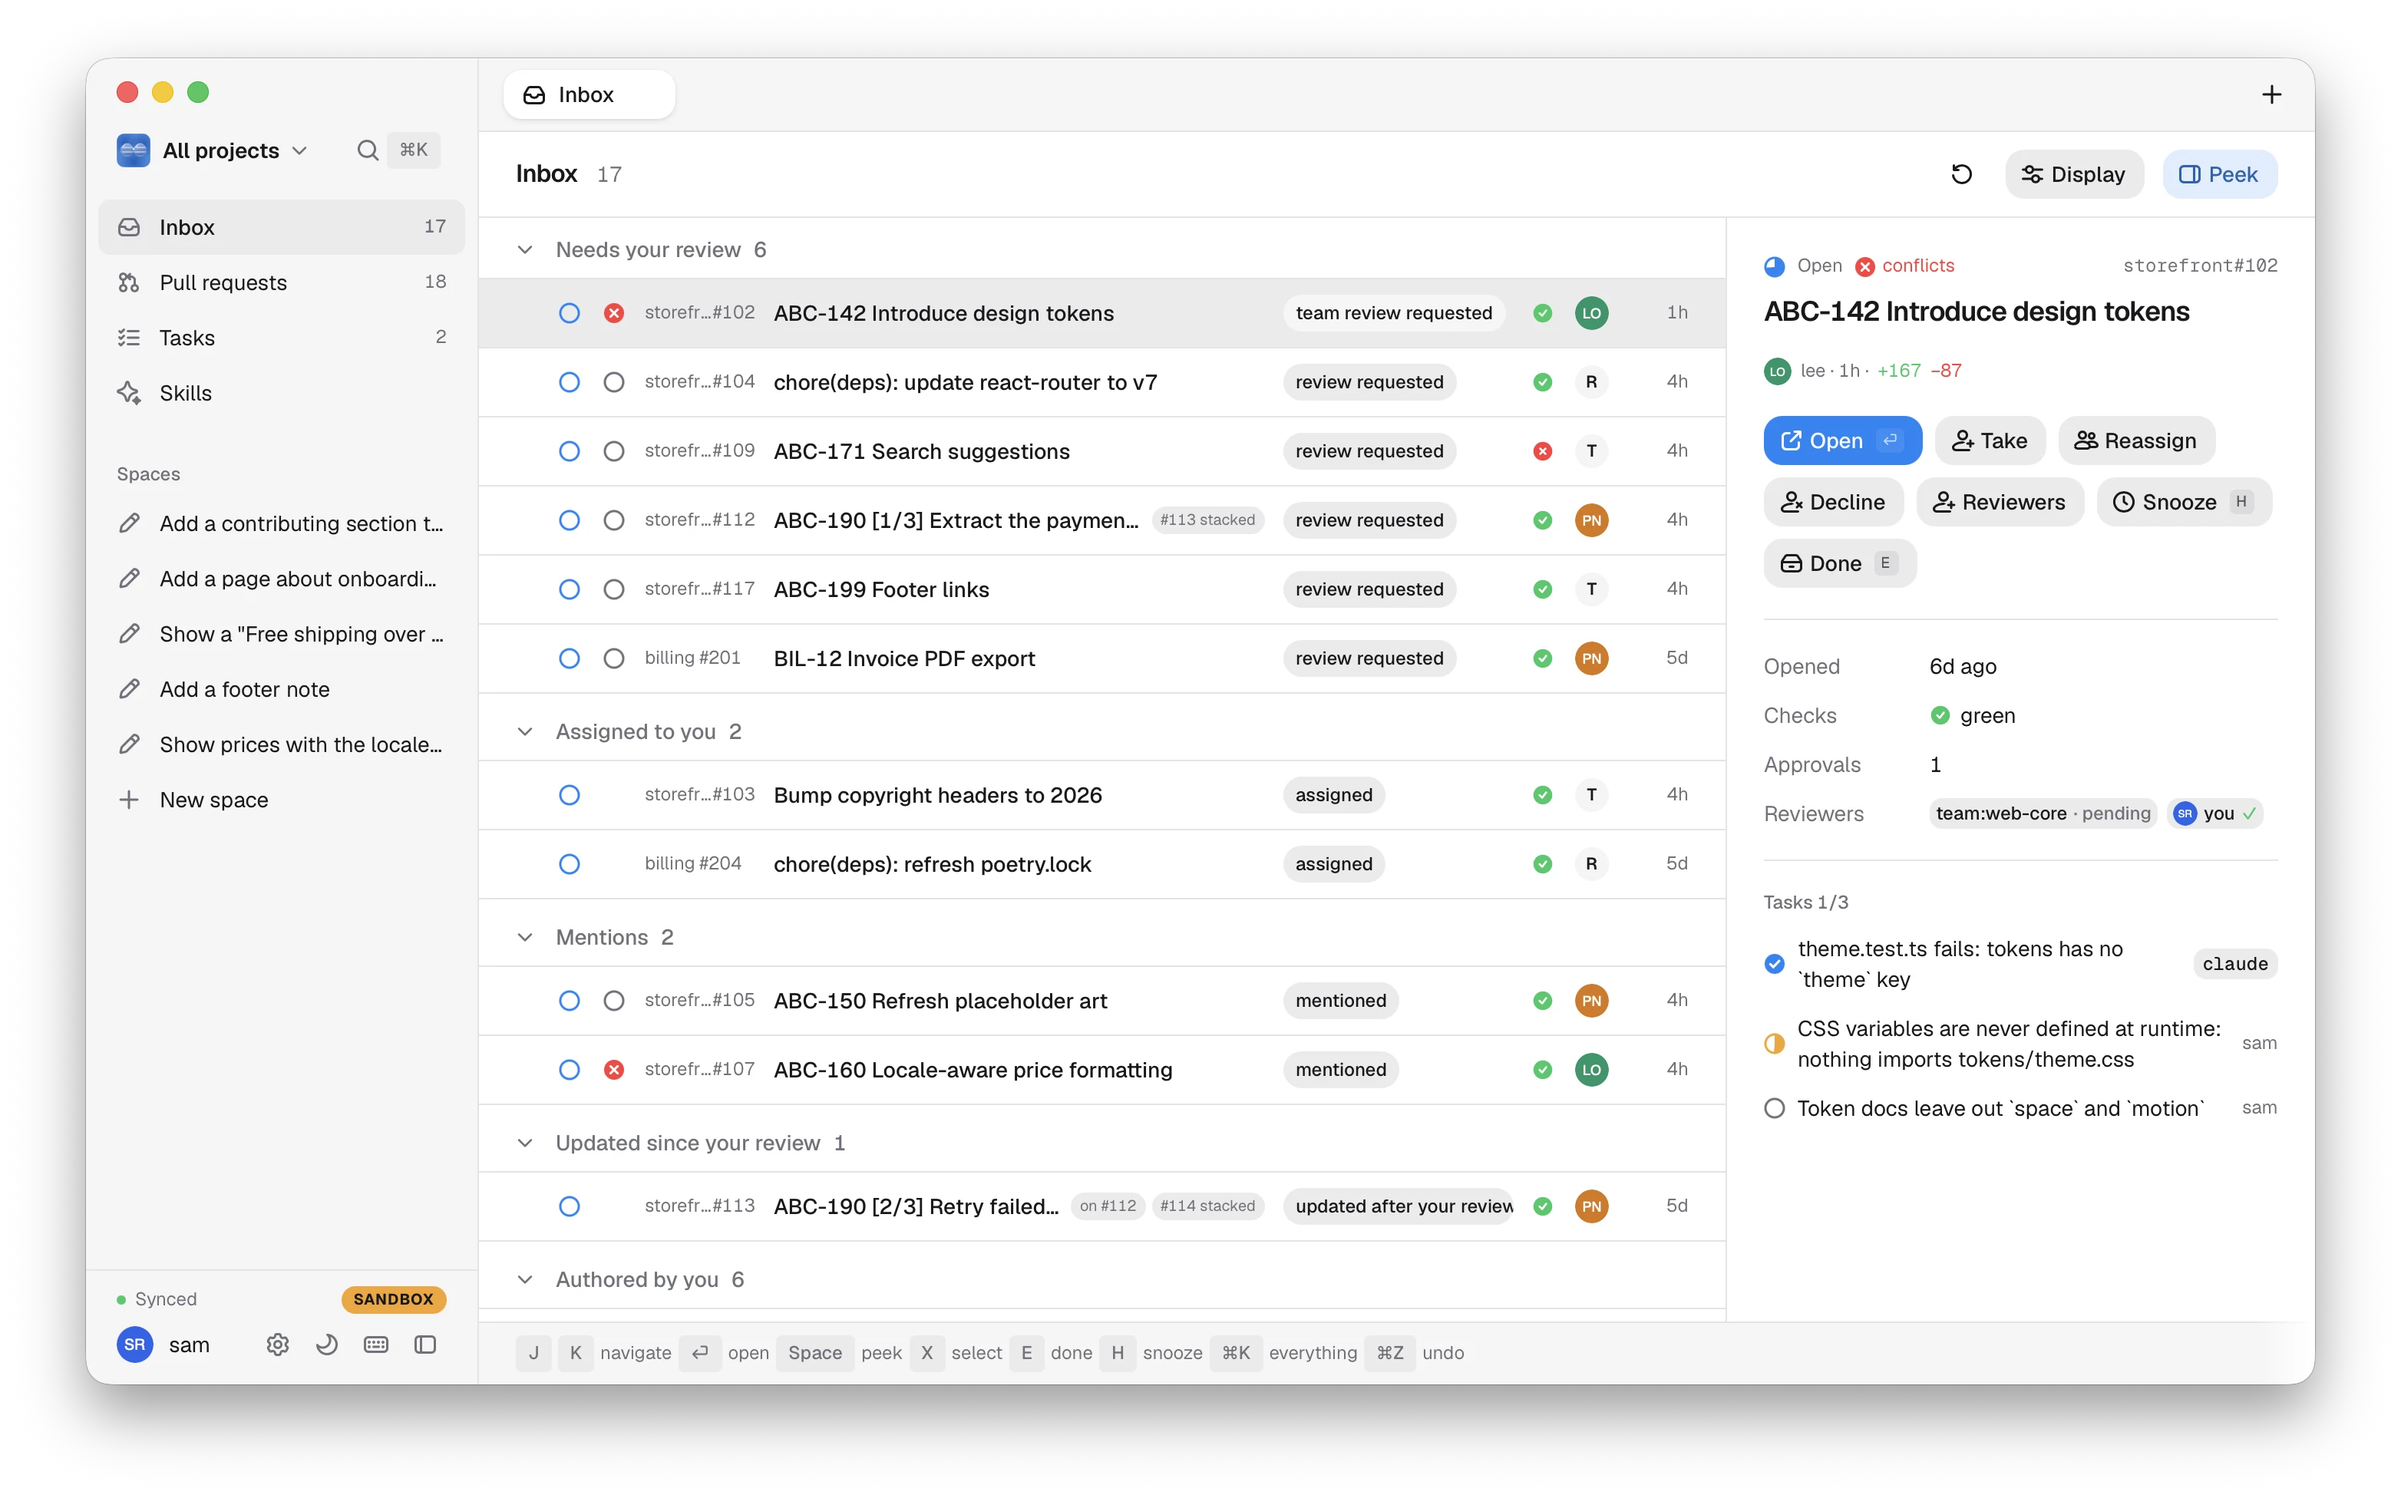
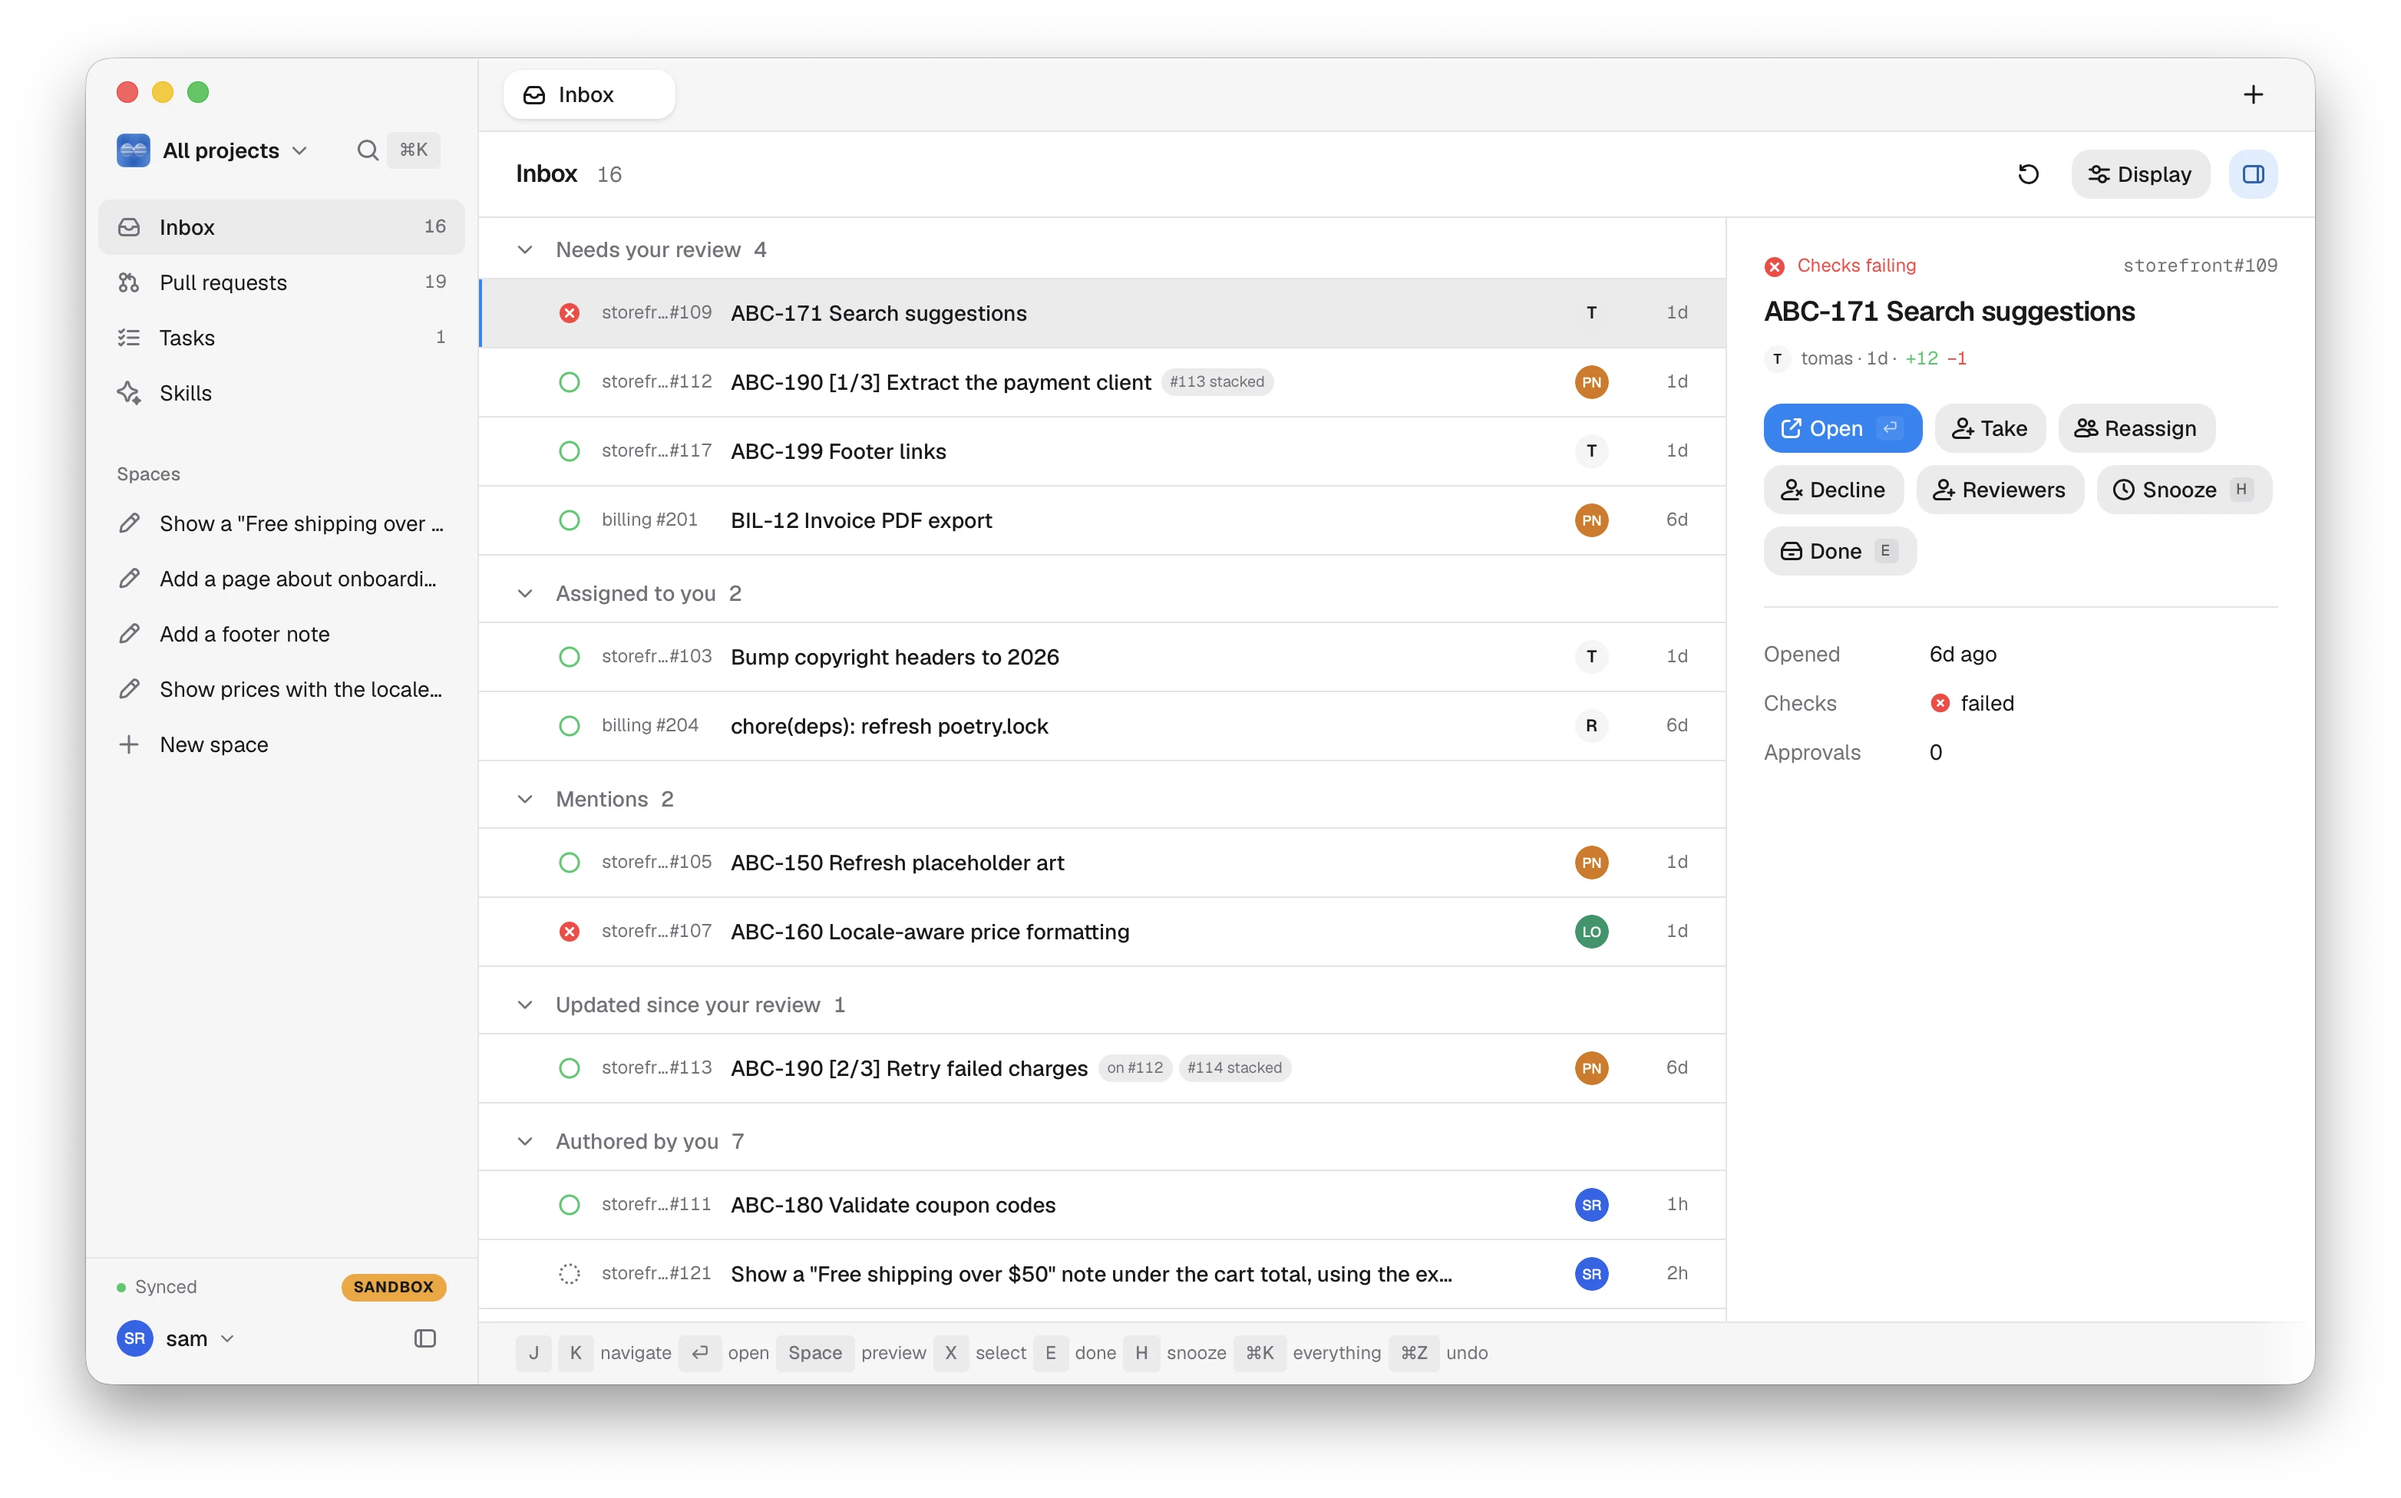
docs: retake every screenshot, add Overview, swatches and Labs

diff --git a/docs/screenshots/README.md b/docs/screenshots/README.md
@@ -7,14 +7,15 @@ Retina, macOS window shadow, WebP.
 
 | | |
 | --- | --- |
-| ![Inbox](01-inbox.webp) **Inbox** — review requests, assignments and mentions in sections; the preview shows a PR with its actions. | ![Pull requests](02-pull-requests.webp) **Pull requests** — every PR of the workspace, filtered All / Mine / Drafts / Merged; Merge shows when its gates pass. |
+| ![Inbox](01-inbox.webp) **Inbox** — review requests, assignments and mentions in sections; the preview shows a PR with its actions. | ![Pull requests](02-pull-requests.webp) **Pull requests** — every PR of the workspace, filtered All / Mine / Drafts / Merged; Mine groups your PRs by what each needs to merge; one status mark per PR. |
 | ![Grouped review](03-review-grouped.webp) **Review, grouped by meaning** — titled groups with a why, a risk and a checklist, read in order; a progress line counts the groups read. | ![AI panel](04-ai-panel.webp) **AI panel** — ask about the change; the agent reads the diff through the review tools. |
 | ![Split diff with a thread](05-split-diff-draft.webp) **Split diff and a thread** — reply or resolve; it goes back to the host. | ![Command palette](06-command-palette.webp) **⌘K** — every action and PR, with its key. |
 | ![Workspace switcher](07-workspace-switcher.webp) **Workspaces** — All projects or one project, ⌃0 / ⌃1…9; each keeps its own tabs. | ![Branches](08-branches.webp) **Branches** — ahead / behind, the PR a branch belongs to, a local review of any branch. |
-| ![Skill findings](09-skill-findings.webp) **Skills** — `/bugs` found a test that will fail; findings become drafts or tasks. | ![Task with an agent fix](10-tasks-agent-fix.webp) **Tasks** — delegated to an agent, the fix comes back as a patch to accept or reject. |
-| ![New space](11-new-space.webp) **New space** (Labs) — say what to change; the agent works in its own worktree. | ![A space](12-space.webp) **A space** — the conversation beside the live diff, then Open PR. |
+| ![Skill findings](09-skill-findings.webp) **Skills** — findings from a real `/bugs` run; colour literals get swatches; findings become drafts or tasks. | ![Task with an agent fix](10-tasks-agent-fix.webp) **Tasks** — delegated to an agent, the fix comes back as a patch to accept or reject. |
+| ![New space](11-new-space.webp) **New space** — say what to change; the agent works in its own worktree. | ![A space](12-space.webp) **A space** — the conversation beside the live diff, then Open PR. |
 | ![Space app and logs](15-space-run-logs.webp) **Run the app** — the project config's `run` command, Open app in the browser, the setup / run / check logs. | ![Project config](13-project-config.webp) **Project config** — created from your settings, checked as you type, saved to the repo (as a PR), locally or globally. |
-| ![Dark theme](14-review-dark.webp) **Dark theme**. | |
+| ![Overview](17-overview.webp) **Overview** — the full title, branches, reviewers and approvals, labels and the description. | ![Colour swatches](16-colour-swatches.webp) **Colour swatches** — every colour literal in code gets one; hover for hex, rgb and hsl. |
+| ![Labs](18-labs.webp) **Labs** — features in progress, off by default: Linear, GitLab, Bitbucket. | ![Dark theme](14-review-dark.webp) **Dark theme** — or System, which follows macOS. |
 
 Retake them with the sandbox: `theodore sandbox init <dir>`, then run the app
 with `THEODORE_SANDBOX=<dir>` and `"agents": "real"` in `scenario.json`.
